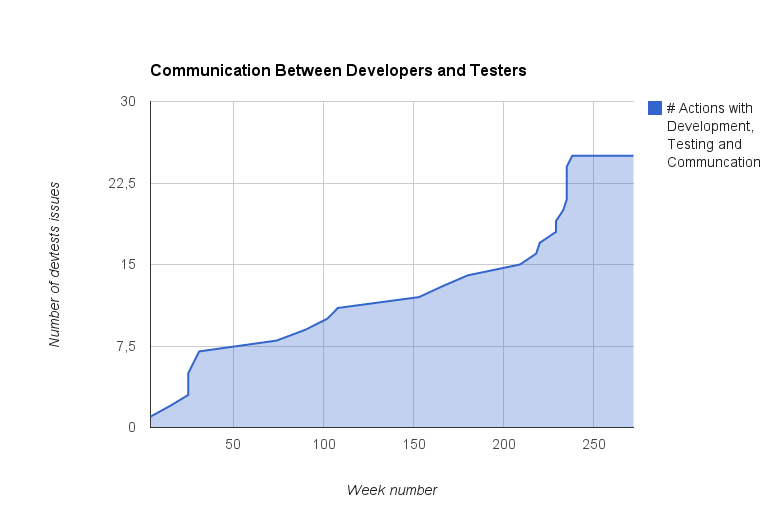
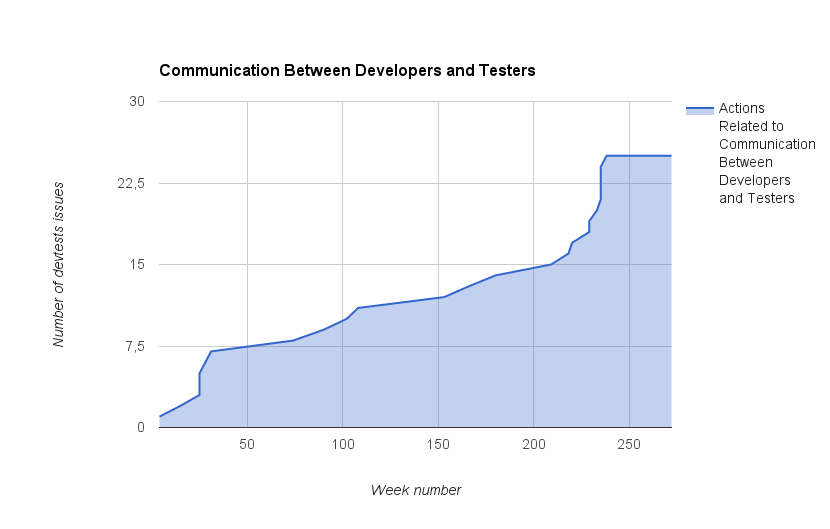
Finished up trend results

diff --git a/results.tex b/results.tex
@@ -36,7 +36,7 @@ In \autoref{figure:key-numbers} we can see the development of numbers of actions
 	\caption{A visual representation of some of the key numbers.}
 	\label{figure:key-numbers}
 \end{sidewaysfigure}
-\afterpage{\clearpage}
+\clearpage	
 
 \subsection{Analysis Results}
 In this section we will present the results from our content analysis. We will present the results for each theme defined in \autoref{method:categories}. 
@@ -327,7 +327,7 @@ The active actions, \autoref{figure:management-pa}, shows that the three categor
 \afterpage{\clearpage}
 
 \subsection{Trends}
-While conducting our content analysis of all the retrospective actions we uncovered some trends. By trend we mean actions that are related to the same issue/theme. We identified three trends being; Bugfix, Scenario Template and Developer-Tester Communication. We'll go through each of these in the following sections.
+While conducting our content analysis of all the retrospective actions we uncovered some trends. By trend we mean actions that are related to the same issue/theme. We identified three trends being; Bugfix, Scenario Template and Developer-Tester Communication. We'll go through each of these in the following sub-sections.
 
 \subsubsection{Bugfix}
 The first trend we recognized performing our content analysis was bugfixing. Developing computer systems is sure to create bugs and fixing them then becomes a natural part of developing software. In total we found 20 actions that was related to bugfixing. Of these two were purely technical actions, five were technical and process related and the remaining 13 action were purely process related. Of the 20 actions nine were related to communication between team members. In \autoref{figure:bugfix} one can see that the total amount of bugfixing actions has increased steadily throughout the timespan. 
@@ -351,5 +351,15 @@ In \autoref{figure:scenario-template} the total amount of scenario template acti
 \end{figure}
 
 \subsubsection{Developer-Tester Communication}
+The final trend we observed during our content analysis was the communication between developers and testers. In total 25 actions were related to this. Of these 24 were process oriented and all the actions occurred from issues with a negative nature. 
+\autoref{figure:dev-test-com} shows the distribution of the 25 actions over the 272 week long timespan. It can be seen that for the first 209 weeks that the amount of actions increase slowly with only two to seven actions every 50th week. After week 209 however we see a dramatic increase in the amount of actions, before it completely stops in week 238. We were not able to find any possible reasons for this sudden stop from reading through the reports. However as can be seen from \autoref{figure:dev-test-com} there has been periods between actions as long as 45 weeks so it is possible that this stop can be such a break.  
+
+\begin{figure}[!h]
+	\centering
+	\includegraphics[width=\textwidth, keepaspectratio]{figures/devtestcom.png}
+	\caption{The total amount of developer-tester communication related actions shown over time.}
+	\label{figure:dev-test-com}
+\end{figure}
 
 \afterpage{\clearpage}
+
